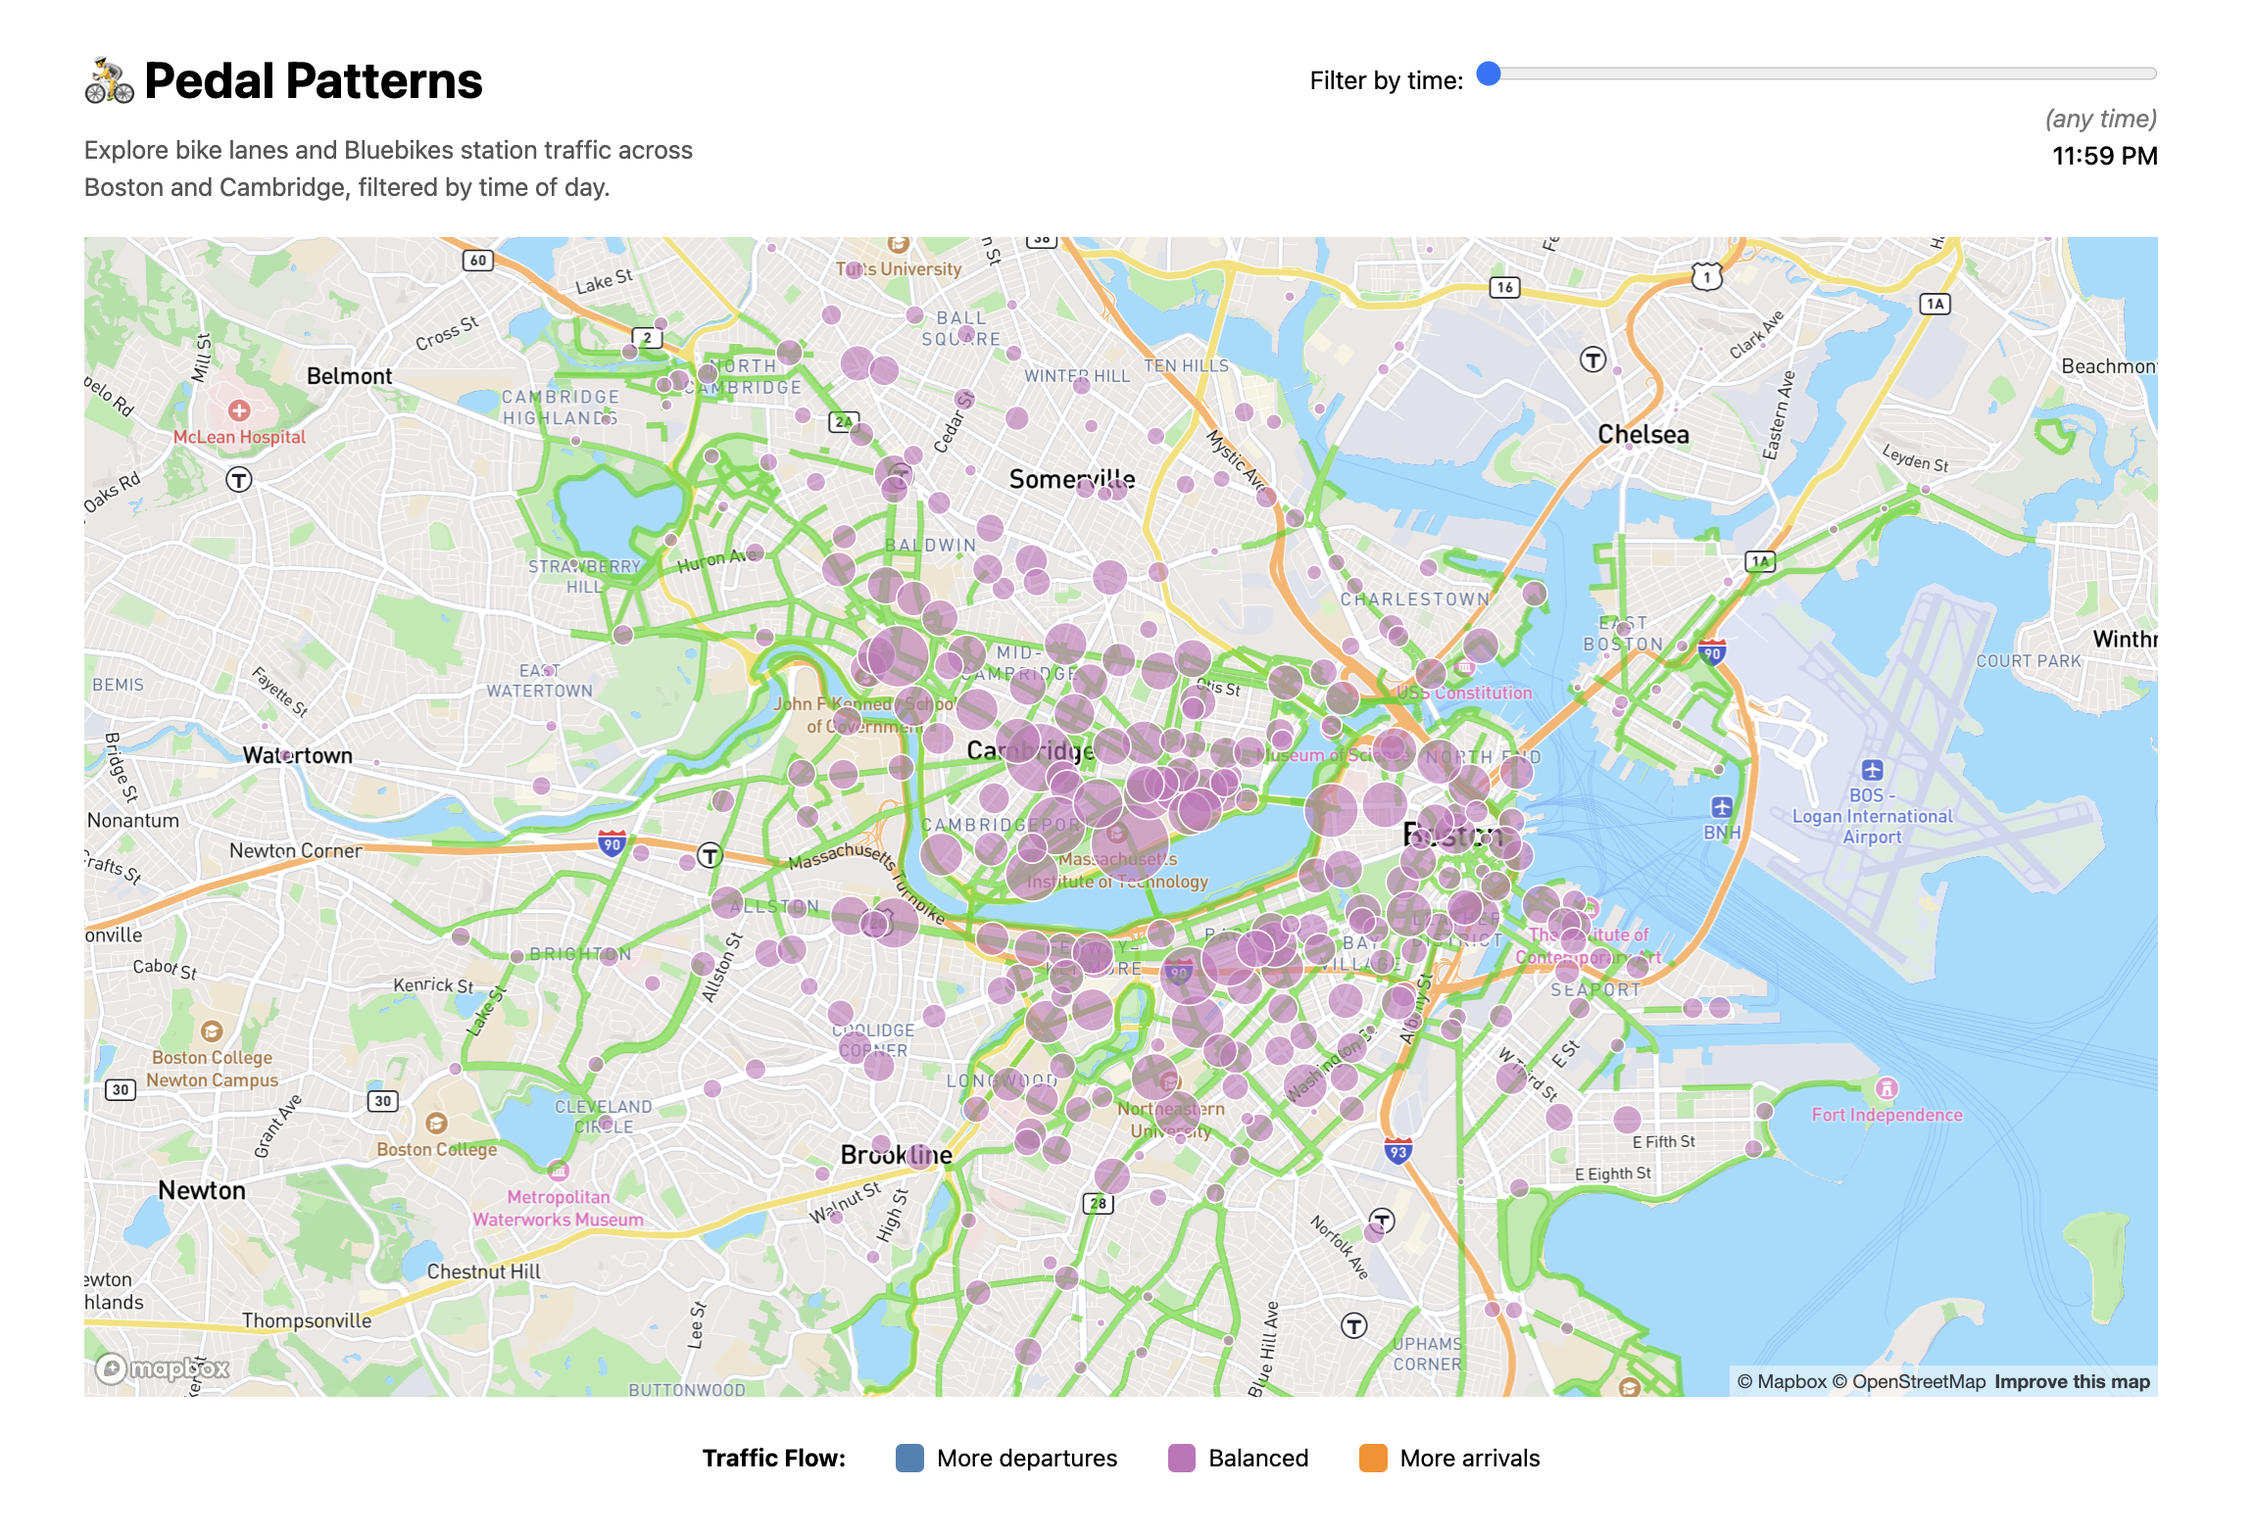
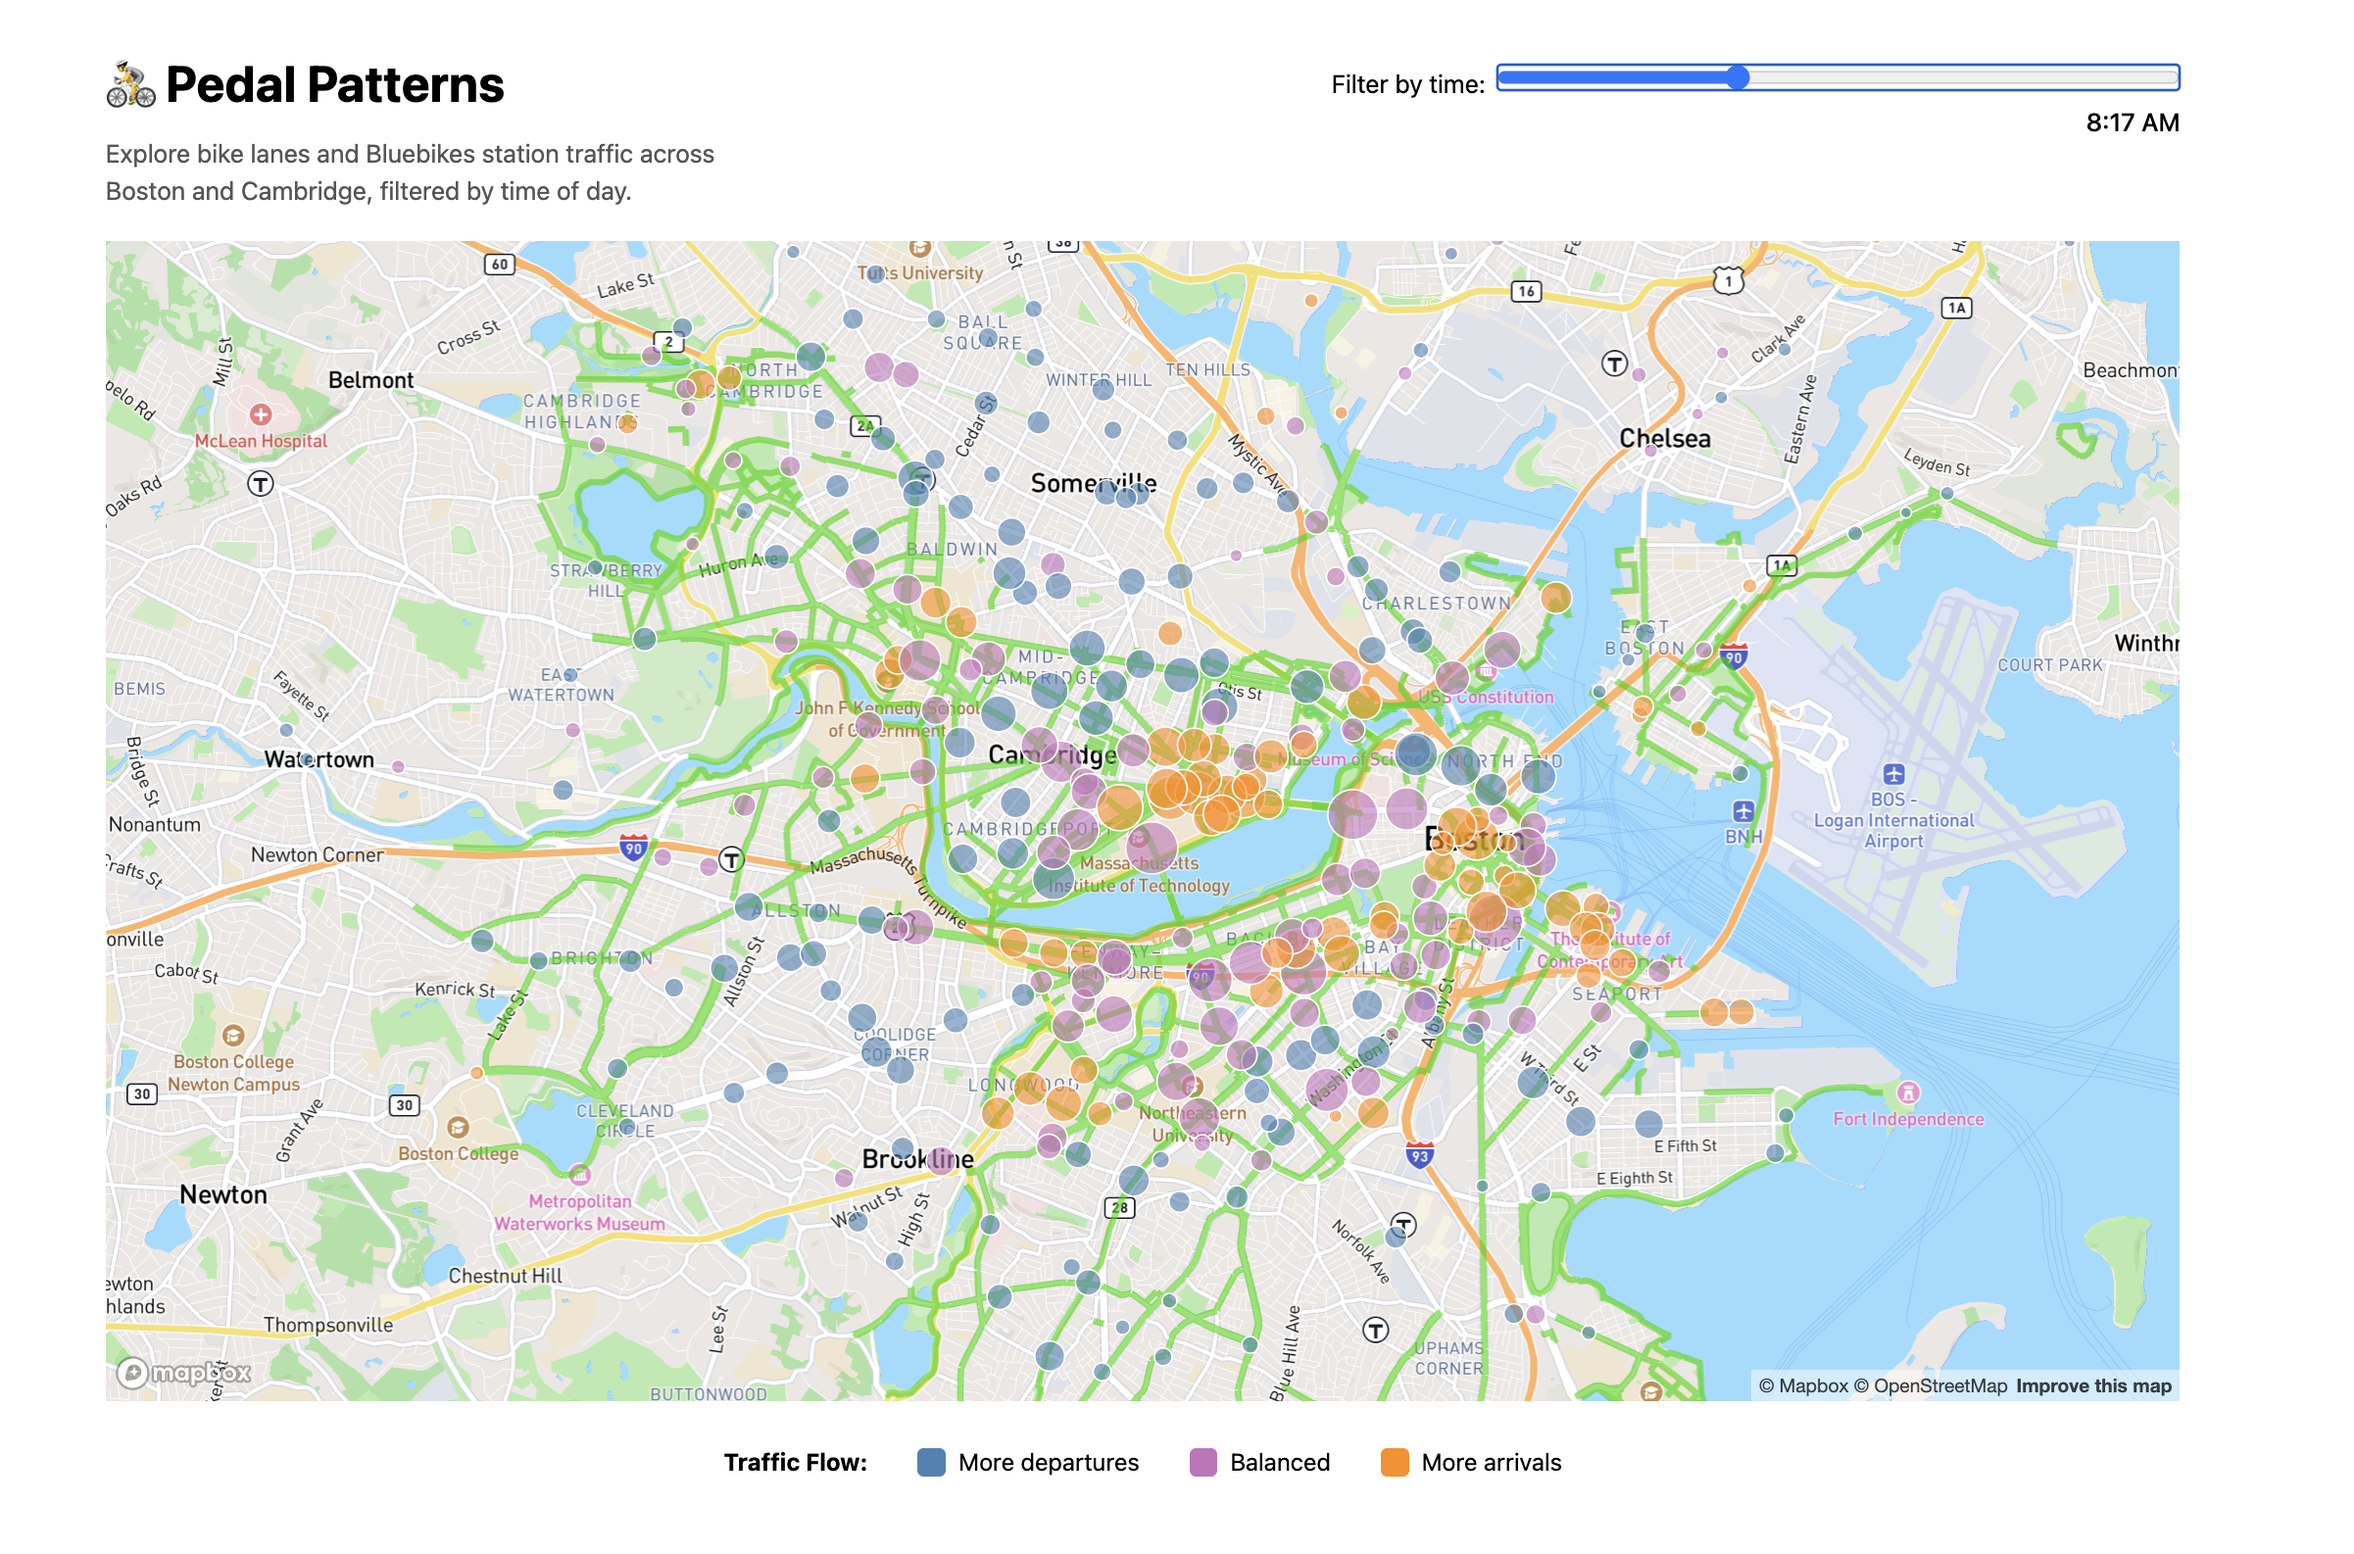
Update portfolio project images, links, and ordering

diff --git a/global.js b/global.js
@@ -173,6 +173,16 @@ export function renderProjects(projects, containerElement, headingLevel = 'h2') 
     year.textContent = `c. ${project.year}`;
 
     info.append(description, year);
+
+    if (project.repo) {
+      const repoLink = document.createElement('a');
+      repoLink.href = project.repo;
+      repoLink.textContent = 'GitHub repository';
+      repoLink.target = '_blank';
+      repoLink.rel = 'noopener noreferrer';
+      info.appendChild(repoLink);
+    }
+
     article.append(heading, image, info);
     containerElement.appendChild(article);
   }
